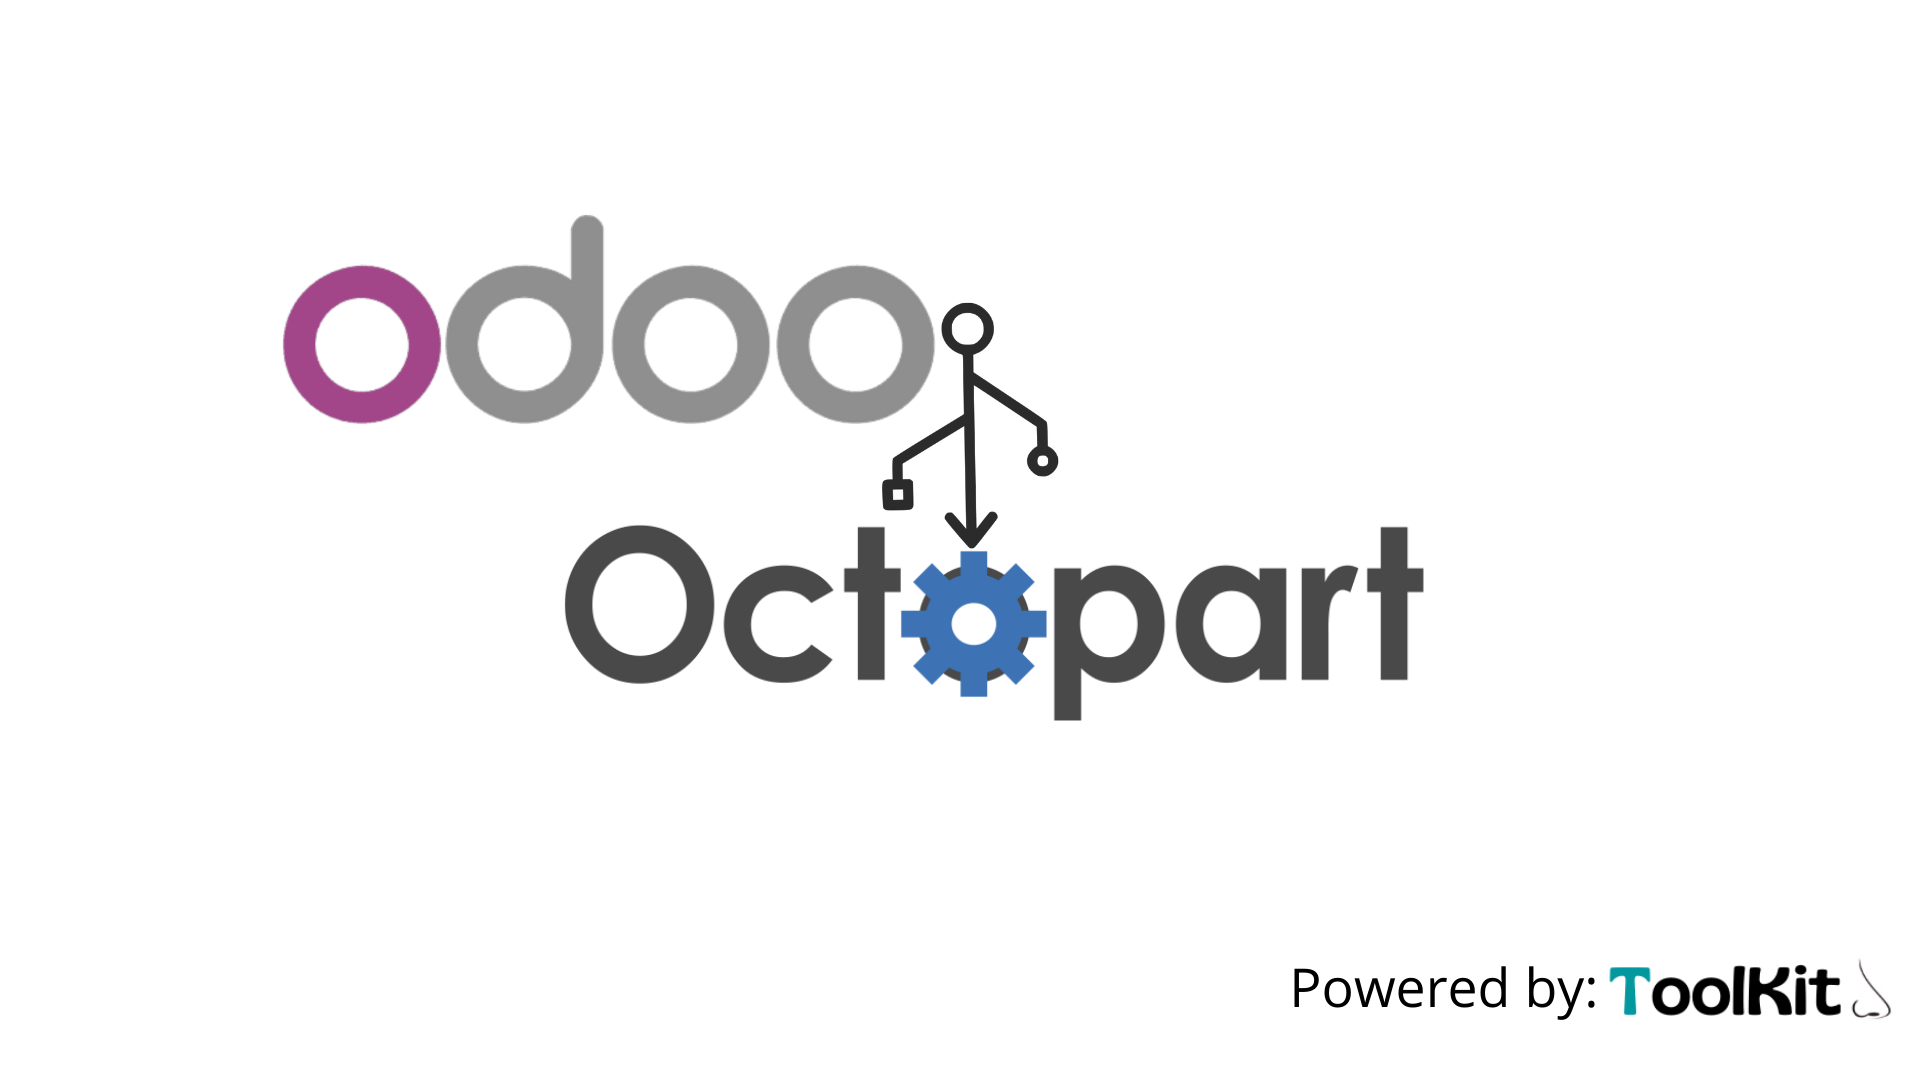
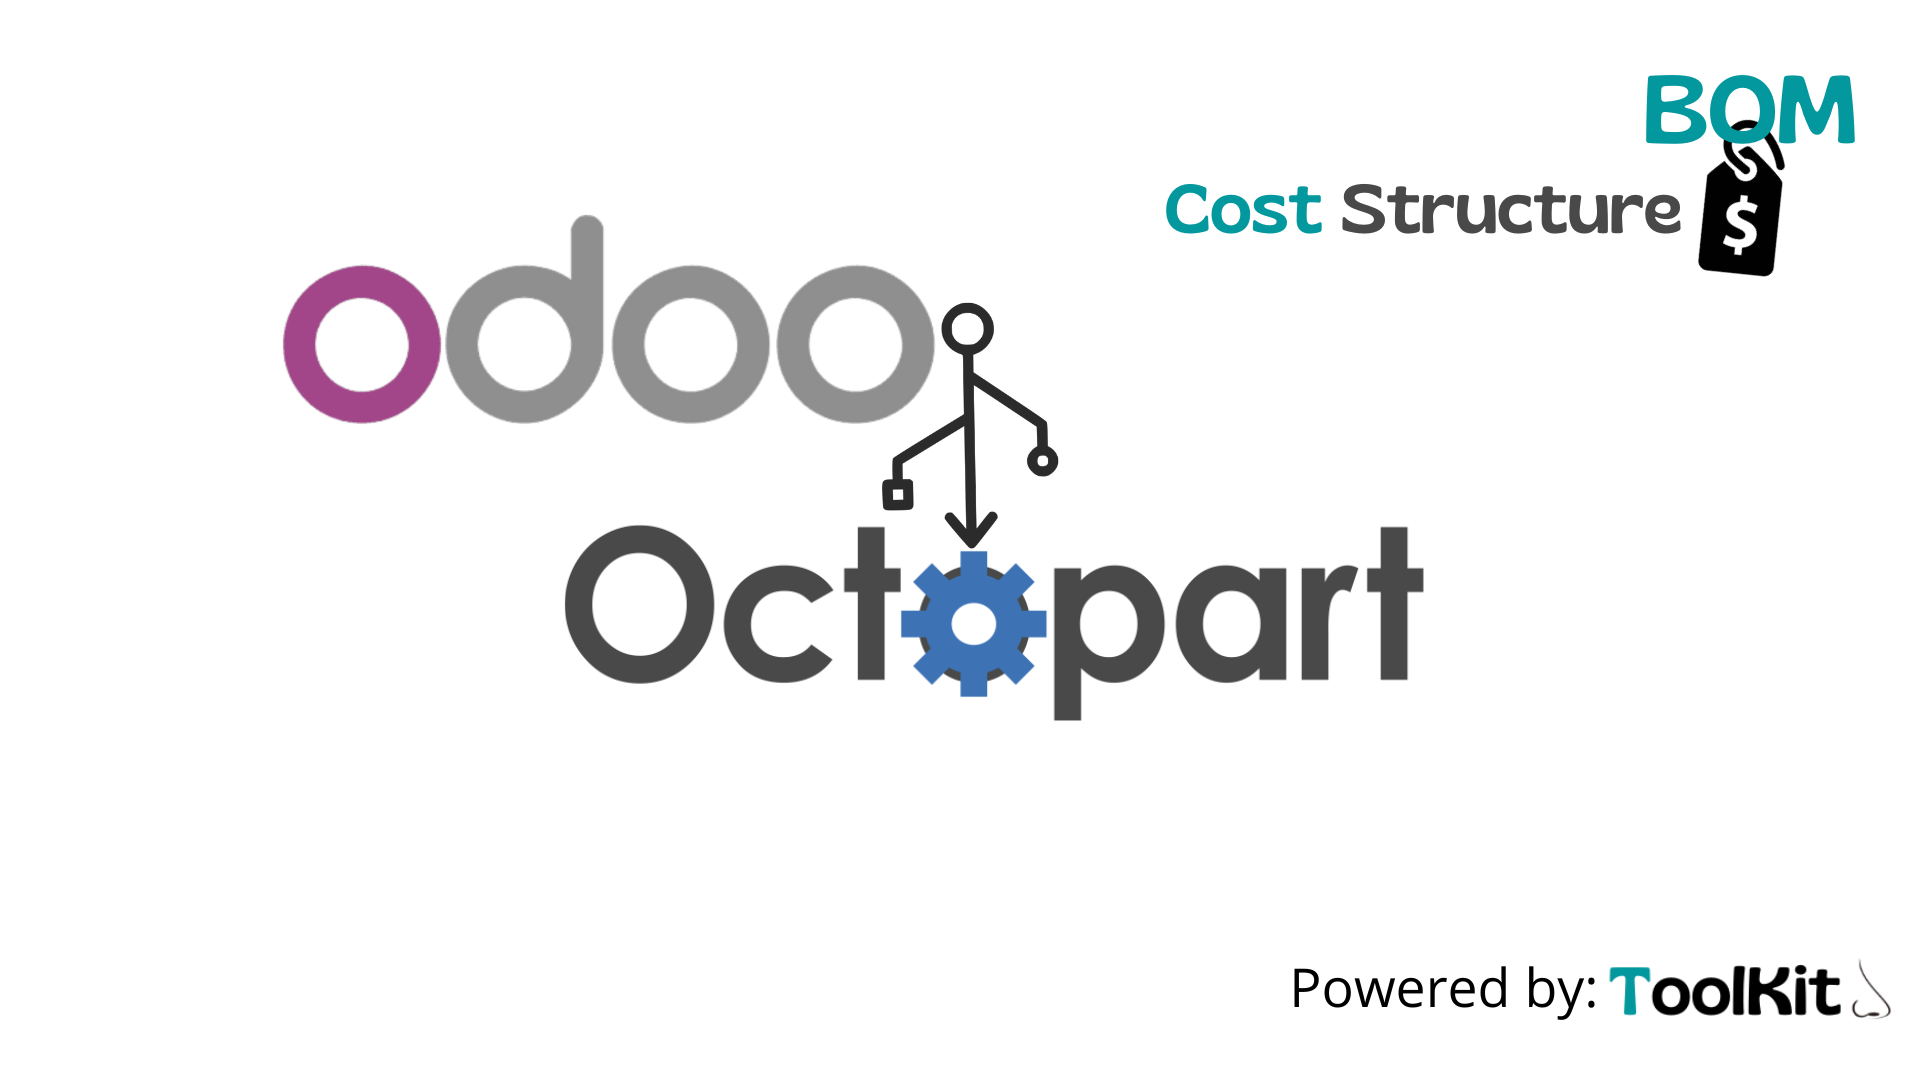
app desc updated in manifest

Changed region(s): [[0.5938, 0.0611, 0.9688, 0.275]]

diff --git a/octopart_connector_cost/__manifest__.py b/octopart_connector_cost/__manifest__.py
@@ -1,7 +1,7 @@
 {
     "name": "Octopart Connector MRP Cost structure",
     "version": "0.1",
-    "summary": "Links product with Octopart",
+    "summary": "Enhances BOM cost and structure and shows Min, Max and Avg cost of the BOM",
     "author": "Norair Arutshyan",
     "depends": [
         "octopart_connector"
